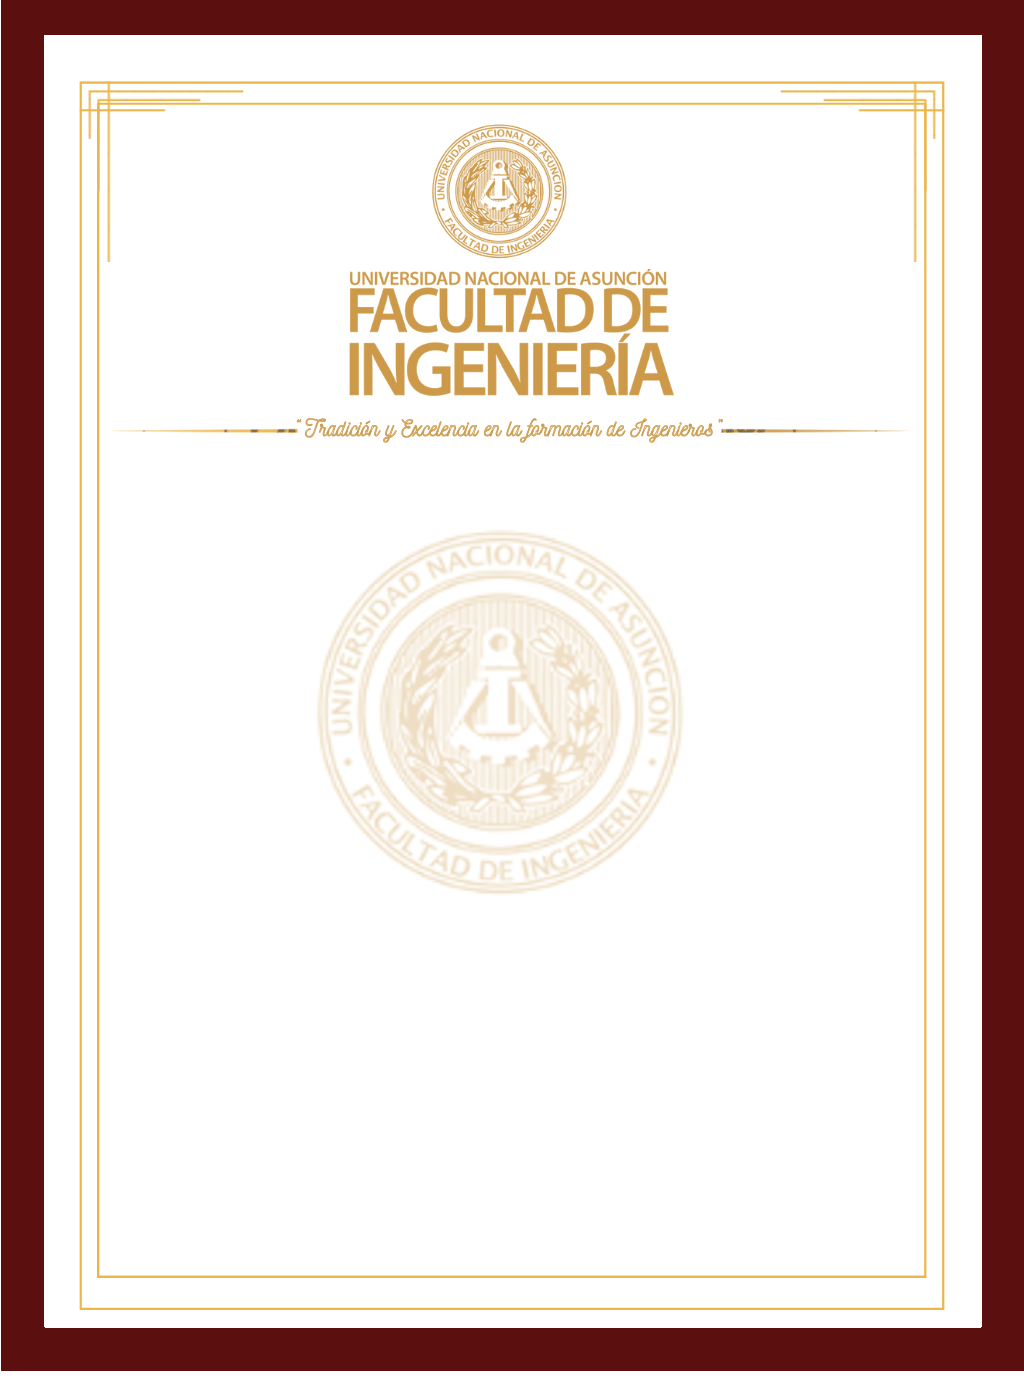
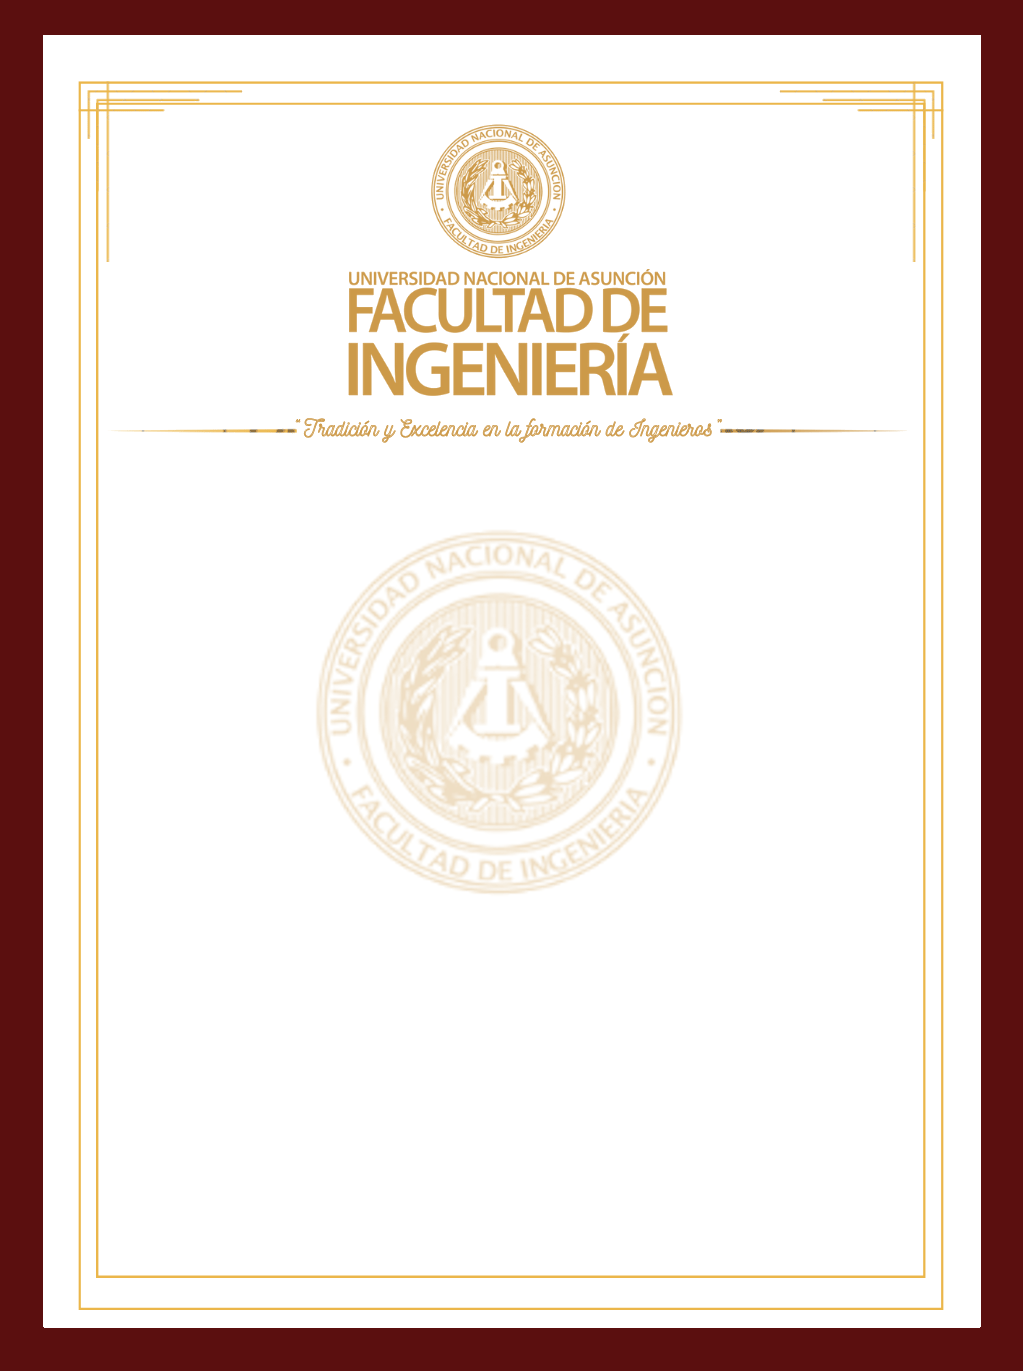
Fix

diff --git a/resources/views/pdf/documento.blade.php b/resources/views/pdf/documento.blade.php
@@ -48,7 +48,7 @@
         .content {
             line-height: 1.6;
             position: absolute;
-            top: 625px;
+            top: 650px;
             width: 60%;
             left: 45%;
             transform: translate(-50%, -50%);
@@ -58,7 +58,7 @@
             text-align: center;
             font-size: 32px;
             width: 80%;
-            margin: 60px auto;
+            margin: 50px auto;
         }
 
         .footer {
